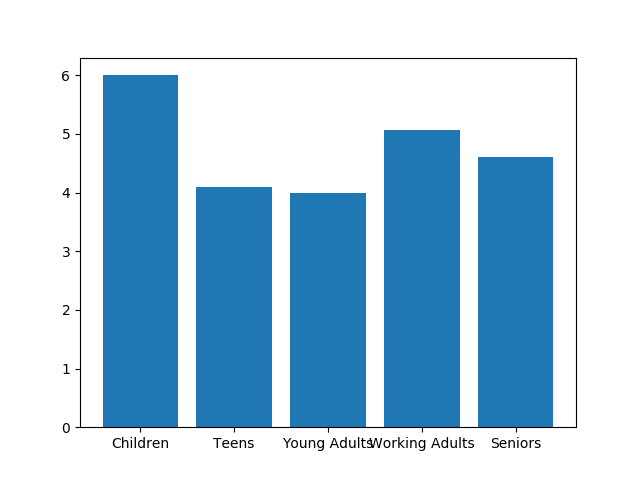
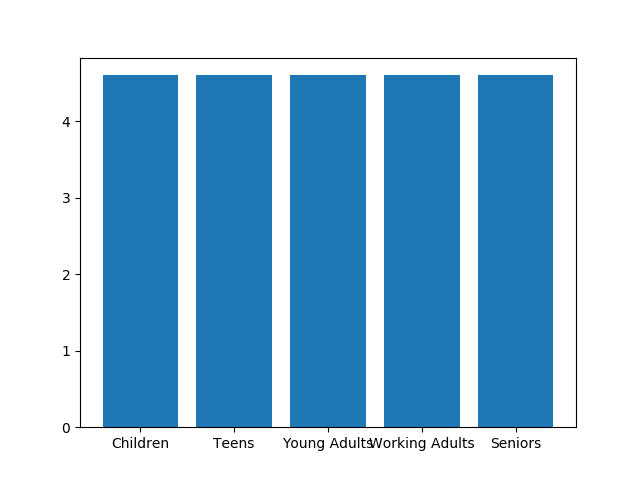
finished basic functions

diff --git a/templates/index.html b/templates/index.html
@@ -12,7 +12,14 @@
             <li><strong>{{data__}}</strong>: {{data[data_][data__]["avg_sentiment_metric"]}}</li>
           {% endfor %}
         </ol>
-        <img class="responsive-img" src="{{url_for('static', filename='img/32-Sentiment by Age Group.png')}}">
+        <!-- <img class="responsive-img" src="{{url_for('static', filename='img/32-Sentiment by Age Group.png')}}"> -->
+      {% elif data_ == "sentiment_by_category" %}
+        <li><u><strong>{{data_}}</strong></u></li>
+        <ol>
+          {% for data__ in data[data_] %}
+            <li><strong>{{data__}}</strong>: {{data[data_][data__]}}%</li>
+          {% endfor %}
+        </ol>
       {% else %}
         <li><u><strong>{{data_}}</strong></u>: {{data[data_]}}</li>
       {% endif %}
@@ -35,4 +42,24 @@
       </tr>
     {% endfor %}
   </table>
+
+  <h3>People's Responses (unTagged)</h3>
+  <h5>Raw Data</h5>
+  <table>
+    <tr>
+      <th>Date_YYYYMMDD</th>
+      <th>Statement</th>
+      <th>Age</th>
+      <th>Sentiment_Metric</th>
+    </tr>
+    {% for response in people_responses_untagged %}
+      <tr>
+        <td>{{response[0]}}</td>
+        <td>{{response[1]}}</td>
+        <td>{{response[2]}}</td>
+        <td>{{response[3]}}</td>
+      </tr>
+    {% endfor %}
+  </table>
+
 {% endblock content %}

diff --git a/main.py b/main.py
@@ -1,5 +1,6 @@
 from flask import Flask, render_template, redirect, url_for, session
 import matplotlib.pyplot as plt
+import textblob
 
 def get_age (age):
   '''
@@ -16,31 +17,84 @@ def get_age (age):
   elif 25 < age <= 65:return "Working Adults"
   else:return "Seniors"
 
+
+def get_category (sentiment_metric):
+  '''
+  Sentiment Category Sentiment_Metric (S) Range
+  Very Negative S ≤ 2.5
+  Slightly Negative 2.5 < S ≤ 4.5
+  Neutral 4.5 < S ≤ 6.5
+  Slightly Positive 6.5 < S ≤ 8.5
+  Very Positive S > 8.5
+  '''
+  if sentiment_metric <= 2.5:return "Very Negative"
+  elif 2.5 < sentiment_metric <= 4.5:return "Slightly Negative"
+  elif 4.5 < sentiment_metric <= 6.5:return "Neutral"
+  elif 6.5 < sentiment_metric <= 8.5:return "Positive"
+  else:return "Very Positive"
+
+
+def process_data (filename):
+  with open (f"static/data/{filename}.csv", "r") as people_responses_file:
+    people_responses = people_responses_file.readlines()
+
+  # headers: Date_YYYYMMDD,Statement,Age,Sentiment_Metric
+  people_responses = [response.rstrip() for response in people_responses]
+
+  for i in range (1, len(people_responses)):
+    temp = people_responses[i].split(",")
+    date = temp[0]
+    if filename != "people_responses_untagged":
+      sentiment_metric = float(temp[-1])
+      age = int(temp[-2])
+      statement = temp[1:len(temp)-2]
+    else:
+      age = int(temp[-1])
+      statement = temp[1:len(temp)-1]
+    if filename != "people_responses_untagged":
+      people_responses[i] = [date, statement, age, sentiment_metric]
+    else:
+      people_responses[i] = [date, statement, age]
+  return people_responses
+
 app = Flask(__name__)
 app.config["SECRET_KEY"] = "984RJOLM3QD;;;.RC;W"
 
 @app.route("/")
 def index ():
-  with open ("static/data/people_responses_tagged.csv", "r") as people_responses_tagged_file:
-    people_responses_tagged = people_responses_tagged_file.readlines()
+  people_responses_tagged = process_data("people_responses_tagged")
+  people_responses_untagged = process_data("people_responses_untagged")
+  people_responses_untagged[0] = people_responses_untagged[0].split(",")
 
-  # headers: Date_YYYYMMDD,Statement,Age,Sentiment_Metric
-  people_responses_tagged = [response.rstrip() for response in people_responses_tagged]
-  for i in range (1, len(people_responses_tagged)):
-    temp = people_responses_tagged[i].split(",")
-    date = temp[0]
-    sentiment_metric = float(temp[-1])
-    age = int(temp[-2])
-    statement = temp[1:len(temp)-2]
-    people_responses_tagged[i] = [date, statement, age, sentiment_metric]
+  people_responses_untagged[0].append("Sentiment_Metric")
+  for i in range (1, len(people_responses_untagged)):
+    # print(people_responses_untagged[i][1][0].rstrip())
+    text = people_responses_untagged[i][1][0].rstrip()
+    response = textblob.TextBlob(text)
+    polarity = response.sentiment.polarity
+    # -1 to 1 => 1 to 10
+    # m = 4.5, c = 5.5 ; y= mx + c
+    sentiment_metric = 4.5 * polarity + 5.5
+    sentiment_metric = round(sentiment_metric, 2)
+    people_responses_untagged[i].append(sentiment_metric)
 
-    # calculate average sentiment across users
-    average_sentiment = 0
-    number_of_responses = len(people_responses_tagged) - 1
+
+  ### DATA PROCESSING ####
+
+  def get_percentage_of_negative_sentiment (data):
+    number_of_responses = len(data) - 1
     # negative sentiment_metric
     negative_sentiment_threshold = 5.5
     percentage_of_negative_sentiment = 0
+    for i in range (1, len(data)):
+      sentiment_metric = float(data[i][3])
+      percentage_of_negative_sentiment += sentiment_metric <= negative_sentiment_threshold
 
+    percentage_of_negative_sentiment = round(percentage_of_negative_sentiment/number_of_responses * 100, 2)
+    return percentage_of_negative_sentiment
+
+  def get_sentiment_by_age (data):
+    number_of_responses = len(data) - 1
     # calculates and summarises the average (mean) sentiment by age groups
     sentiment_by_age = {"Children": {"population": 0, "avg_sentiment_metric": 0},
                         "Teens": {"population": 0, "avg_sentiment_metric": 0},
@@ -48,40 +102,60 @@ def index ():
                         "Working Adults": {"population": 0, "avg_sentiment_metric": 0},
                         "Seniors": {"population": 0, "avg_sentiment_metric": 0}}
 
-    for i in range (1, len(people_responses_tagged)):
-      sentiment_metric = float(people_responses_tagged[i][3])
-      age = int(people_responses_tagged[i][2])
-      average_sentiment += sentiment_metric
-      percentage_of_negative_sentiment += sentiment_metric <= negative_sentiment_threshold
+    for i in range (1, len(data)):
+      sentiment_metric = float(data[i][3])
+      age = int(data[i][2])
       sentiment_by_age[get_age(age)]["avg_sentiment_metric"] += sentiment_metric
       sentiment_by_age[get_age(age)]["population"] += 1
 
-    # get the mean sentiment
-    plt_age_group = []
-    plt_mean_sentiment = []
     for age_group in sentiment_by_age:
-      plt_age_group.append(age_group)
       if sentiment_by_age[age_group]["population"] == 0: # handle ZeroDivisionError
-        plt_mean_sentiment.append(0)
         continue
+      sentiment_by_age[age_group]["avg_sentiment_metric"] = sentiment_by_age[age_group]["avg_sentiment_metric"]/sentiment_by_age[age_group]["population"]
+      sentiment_by_age[age_group]["avg_sentiment_metric"] = round(sentiment_by_age[age_group]["avg_sentiment_metric"], 2)
+    return sentiment_by_age
 
-      sentiment_by_age[age_group]["avg_sentiment_metric"] /= sentiment_by_age[age_group]["population"]
-      sentiment_by_age[age_group]["avg_sentiment_metric"] = round(sentiment_by_age[age_group]
-      ["avg_sentiment_metric"], 2)
-      plt_mean_sentiment.append(sentiment_by_age[age_group]["avg_sentiment_metric"])
+  def get_average_sentiment (data):
+    number_of_responses = len(data) - 1
+    # calculate average sentiment across users
+    average_sentiment = 0
+    for i in range (1, len(data)):
+      sentiment_metric = float(data[i][3])
+      average_sentiment += sentiment_metric
 
     average_sentiment /= number_of_responses
     average_sentiment = round(average_sentiment, 2)
-    percentage_of_negative_sentiment = round(percentage_of_negative_sentiment/number_of_responses * 100, 2)
 
-  # graph out the mean sentiment by age group
-  plt.bar(plt_age_group, plt_mean_sentiment)
-  plt.savefig("static/img/32-Sentiment by Age Group.png")
-  plt.close()
+    return average_sentiment
+
+  def get_sentiment_by_category (data):
+    number_of_responses = len(data) - 1
+    sentiment_by_category = {"Very Negative": 0,
+                            "Slightly Negative": 0,
+                            "Neutral": 0,
+                            "Positive": 0,
+                            "Very Positive": 0}
+    for i in range (1, len(data)):
+      sentiment_metric = float(data[i][3])
+      sentiment_by_category[get_category(sentiment_metric)] += 1
+
+    for category in sentiment_by_category:
+      sentiment_by_category[category] = 100 * sentiment_by_category[category] / number_of_responses
+      sentiment_by_category[category] = round(sentiment_by_category[category], 2)
+    return sentiment_by_category
+
+
+  average_sentiment = get_average_sentiment(people_responses_tagged)
+  percentage_of_negative_sentiment = get_percentage_of_negative_sentiment(people_responses_tagged)
+  sentiment_by_age = get_sentiment_by_age(people_responses_tagged)
+  sentiment_by_category = get_sentiment_by_category(people_responses_tagged)
+
   return render_template("index.html", people_responses_tagged=people_responses_tagged[1:],
+                          people_responses_untagged=people_responses_untagged[1:],
                           data = {"average_sentiment": average_sentiment,
                                   "percentage_of_negative_sentiment": percentage_of_negative_sentiment,
-                                  "sentiment_by_age": sentiment_by_age})
+                                  "sentiment_by_age": sentiment_by_age,
+                                  "sentiment_by_category": sentiment_by_category})
 
 if __name__ == "__main__":
   app.run(host="0.0.0.0", debug=True)
